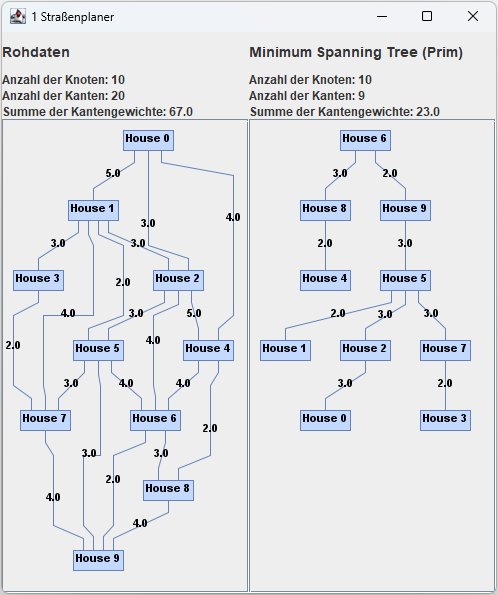
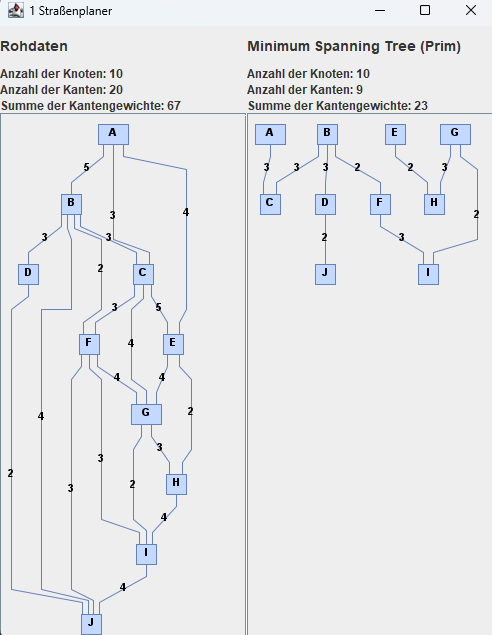
Fixed problem 1 prim algorithm

diff --git a/code/Problem1.java b/code/Problem1.java
@@ -4,20 +4,23 @@ import java.awt.Dimension;
 import java.awt.GridLayout;
 import java.io.FileNotFoundException;
 import java.io.IOException;
+import java.util.ArrayList;
+import java.util.Comparator;
+import java.util.PriorityQueue;
 
 import code.utils.AdjazenzMatrix;
 import code.utils.BasicWindow;
+import code.utils.Edge;
 import code.utils.FileHandler;
 import code.utils.JGraphPanel;
+import code.utils.Vertex;
 
 public class Problem1 extends BasicWindow {
-
-  private int num_vertices = 0;
 
   public Problem1(String title) throws FileNotFoundException, IOException {
     super(title);
 
-    setSize(new Dimension(480, 650));
+    setSize(new Dimension(510, 650));
     setLayout(new GridLayout(1, 2));
     setLocationRelativeTo(null);
 
@@ -29,7 +32,7 @@ public class Problem1 extends BasicWindow {
     am_input.printMatrix();
 
     // Erstelle die Ausgabe-Adjazenzmatrix mit dem Prim Algorithmus
-    int[][] matrix_output = prim(am_input.getMatrixCopy());
+    int[][] matrix_output = prim(am_input);
 
     // Erstelle die Ausgabe-Adjazenzmatrix, gebe sie in der Konsole aus und schreibe
     // sie in eine Datei
@@ -45,63 +48,95 @@ public class Problem1 extends BasicWindow {
     add(p2);
   }
 
-  // Function to construct and print MST for a graph
-  // represented using adjacency matrix representation
-  private int[][] prim(int[][] matrix) {
+  private int[][] prim(AdjazenzMatrix input) {
 
-    // number of vertices in graph
-    num_vertices = matrix[0].length;
+    int[][] matrix = input.getMatrixCopy();
+    char[] vertexLetters = input.getVertexLetters();
 
-    int parents[] = new int[num_vertices];
-    int vertices_value[] = new int[num_vertices];
-    Boolean mst_vertices[] = new Boolean[num_vertices];
+    ArrayList<Vertex> vertices = new ArrayList<>();
+    ArrayList<Edge> edges = getEdges(matrix, vertexLetters);
 
-    // Initialisiere alle Knoten mit ∞, setze den Vorgänger auf null
-    for (int i = 0; i < num_vertices; i++) {
-      vertices_value[i] = Integer.MAX_VALUE;
-      mst_vertices[i] = false;
+    // Generiere eine Liste aller Knoten mit dem Wert unendlich und ohne Vorgänger
+    for (int i = 0; i < matrix.length; i++)
+      vertices.add(new Vertex(vertexLetters[i], Integer.MAX_VALUE, null));
+
+    // Speichere alle Knoten in einer geeigneten Datenstruktur Q
+    // -> Prioritätswarteschlange
+    PriorityQueue<Vertex> q = new PriorityQueue<>(Comparator.comparingInt(Vertex::getKey));
+    q.addAll(vertices);
+
+    // Starte mit beliebigem Startknoten, Startknoten bekommt den Wert 0
+    q.peek().setKey(0);
+
+    // Solange es noch Knoten in Q gibt...
+    while (!q.isEmpty()) {
+      // Entnehme den Knoten mit dem kleinsten Wert
+      Vertex u = q.poll();
+
+      // Für jeden Nachbarn n von u
+      for (Vertex n : getNeighbors(u, vertices, edges)) {
+        // Finde die Kante (u, n)
+        Edge e = null;
+        for (Edge edge : edges)
+          if ((edge.getSource() == u.getLetter() && edge.getTarget() == n.getLetter())
+              || (edge.getSource() == n.getLetter() && edge.getTarget() == u.getLetter()))
+            e = edge;
+
+        // Wenn n in Q und das Gewicht der Kante (u, n) kleiner ist als der Wert von n
+        if (!q.contains(n) || e.getWeight() >= n.getKey())
+          continue;
+
+        // Setze den Wert von n auf das Gewicht der Kante (u, n)
+        n.setKey(e.getWeight());
+        // Setze den Vorgänger von n auf u
+        n.setPredecessor(u);
+        // Aktualisiere die Position von n in Q
+        q.remove(n);
+        q.add(n);
+      }
     }
 
-    // Starte mit beliebigem Startknoten, bekommt den Wert 0 und besitzt keinen
-    // Vorgänger
-    vertices_value[0] = 0;
-    parents[0] = -1;
+    // Erstelle die Adjazenzmatrix für den Minimum Spanning Tree
+    int[][] matrix_output = new int[matrix.length][matrix.length];
+    for (Vertex v : vertices) {
+      if (v.getPredecessor() == null)
+        continue;
 
-    for (int count = 0; count < num_vertices - 1; count++) {
-
-      int u = minKey(vertices_value, mst_vertices);
-
-      // Add the picked vertex to the MST Set
-      mst_vertices[u] = true;
-
-      for (int v = 0; v < num_vertices; v++)
-
-        if (matrix[v][u] != 0 && mst_vertices[v] == false
-            && matrix[u][v] < vertices_value[v]) {
-          parents[v] = u;
-          vertices_value[v] = matrix[v][u];
-        }
+      int i = v.getLetter() - 'A';
+      int j = v.getPredecessor().getLetter() - 'A';
+      matrix_output[i][j] = matrix[i][j];
+      matrix_output[j][i] = matrix[j][i];
     }
-
-    for (int i = 1; i < num_vertices; i++) {
-      matrix[i][parents[i]] = matrix[parents[i]][i];
-    }
-
-    return matrix;
+    return matrix_output;
   }
 
-  int minKey(int key[], Boolean mstSet[]) {
-    // Initialize min value
-    int min = Integer.MAX_VALUE;
-    int min_index = -1;
+  private ArrayList<Vertex> getNeighbors(Vertex u, ArrayList<Vertex> vertices, ArrayList<Edge> edges) {
+    // neue Liste für nachbarn
+    ArrayList<Vertex> neighbors = new ArrayList<Vertex>();
 
-    for (int v = 0; v < num_vertices; v++)
-      if (mstSet[v] == false && key[v] < min) {
-        min = key[v];
-        min_index = v;
-      }
+    for (Edge e : edges) {
+      // Überspringe Kanten, die nicht mit dem Knoten verbunden sind
+      if (e.getSource() != u.getLetter() && e.getTarget() != u.getLetter())
+        continue;
+      // Finde vertex v anhand der source/target, der mit u verbunden ist und füge ihn
+      // der Liste hinzu
+      for (Vertex v : vertices)
+        if ((v.getLetter() == e.getSource() || v.getLetter() == e.getTarget()) && v != u)
+          neighbors.add(v);
+    }
+    return neighbors;
+  }
 
-    return min_index;
+  private ArrayList<Edge> getEdges(int[][] matrix, char[] vertexLetters) {
+    ArrayList<Edge> edges = new ArrayList<>();
+
+    // Iteriere über die Adjazenzmatrix und füge alle Kanten der Liste hinzu
+    for (int i = 0; i < matrix.length; i++)
+      for (int j = 0; j < matrix.length; j++)
+        if (matrix[i][j] != 0)
+          edges.add(new Edge(vertexLetters[i], vertexLetters[j], matrix[i][j]));
+
+    return edges;
   }
 
 }

diff --git a/code/utils/Edge.java b/code/utils/Edge.java
@@ -1,0 +1,44 @@
+package code.utils;
+
+public class Edge {
+
+  private char source;
+  private char target;
+  private int weight;
+
+  public Edge(char source, char target, int weight) {
+    this.source = source;
+    this.target = target;
+    this.weight = weight;
+  }
+
+  public char getSource() {
+    return this.source;
+  }
+
+  public void setSource(char source) {
+    this.source = source;
+  }
+
+  public char getTarget() {
+    return this.target;
+  }
+
+  public void setTarget(char target) {
+    this.target = target;
+  }
+
+  public int getWeight() {
+    return this.weight;
+  }
+
+  public void setWeight(int weight) {
+    this.weight = weight;
+  }
+
+  @Override
+  public String toString() {
+    return "Edge [source=" + this.source + ", target=" + this.target + ", weight=" + this.weight + "]";
+  }
+
+}

diff --git a/code/utils/Vertex.java b/code/utils/Vertex.java
@@ -1,0 +1,39 @@
+package code.utils;
+
+public class Vertex {
+
+  private char letter;
+  private int key;
+  private Vertex predecessor;
+
+  public Vertex(char letter, int value, Vertex predecessor) {
+    this.letter = letter;
+    this.key = value;
+    this.predecessor = predecessor;
+  }
+
+  public char getLetter() {
+    return this.letter;
+  }
+
+  public int getKey() {
+    return this.key;
+  }
+
+  public void setKey(int value) {
+    this.key = value;
+  }
+
+  public Vertex getPredecessor() {
+    return this.predecessor;
+  }
+
+  public void setPredecessor(Vertex predecessor) {
+    this.predecessor = predecessor;
+  }
+
+  @Override
+  public String toString() {
+    return "Vertex [letter=" + this.letter + ", key=" + this.key + ", predecessor=" + this.predecessor + "]";
+  }
+}
